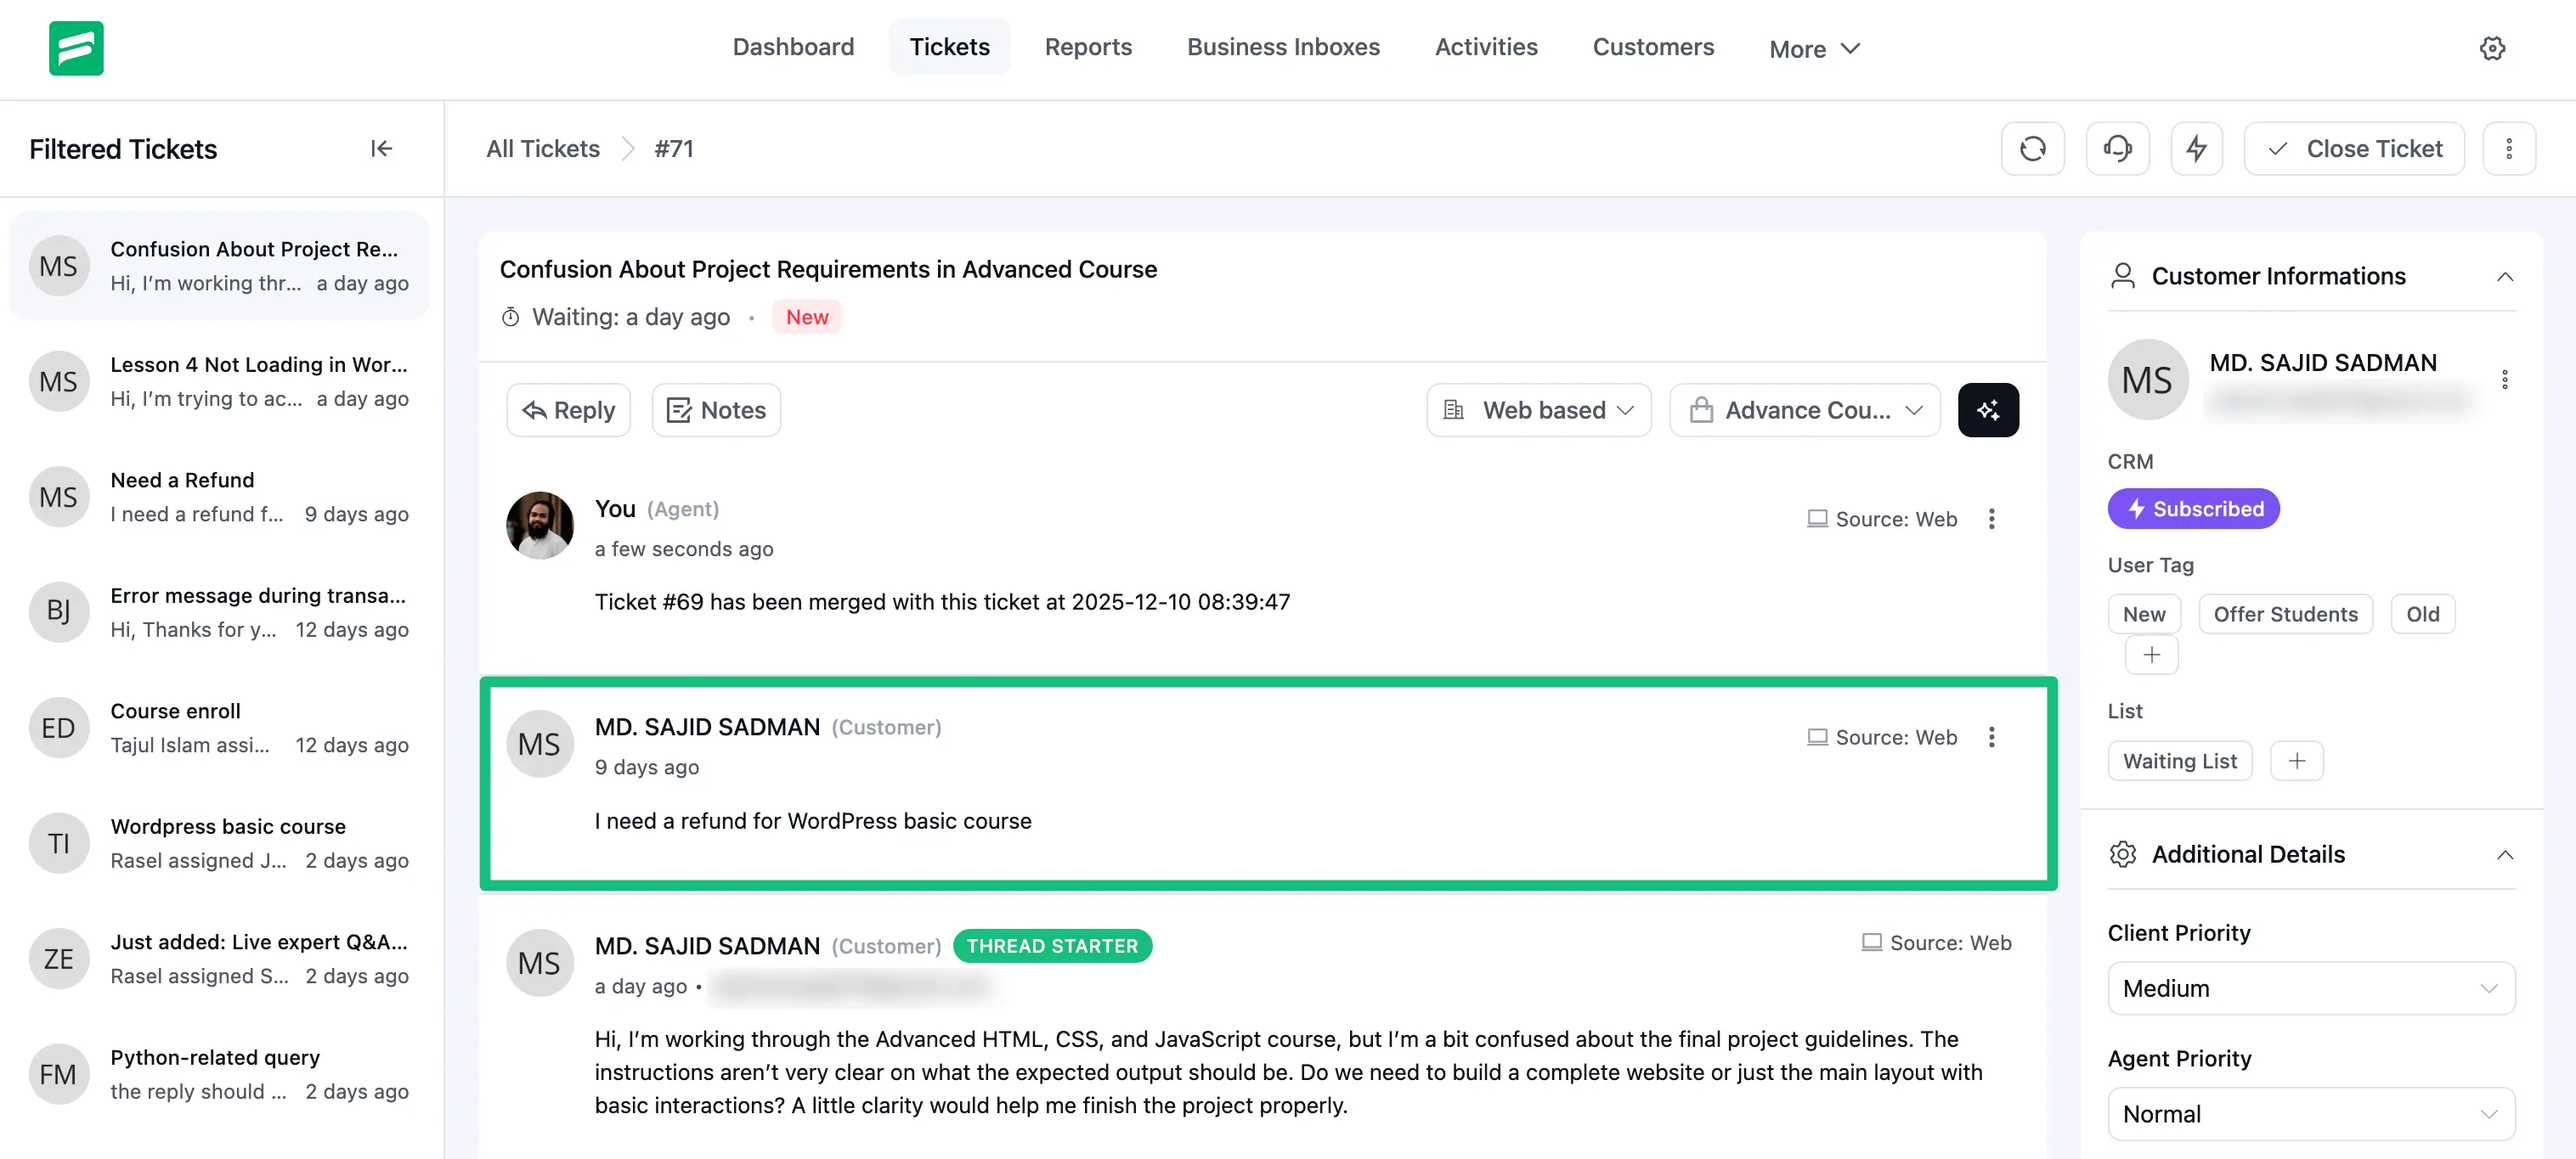
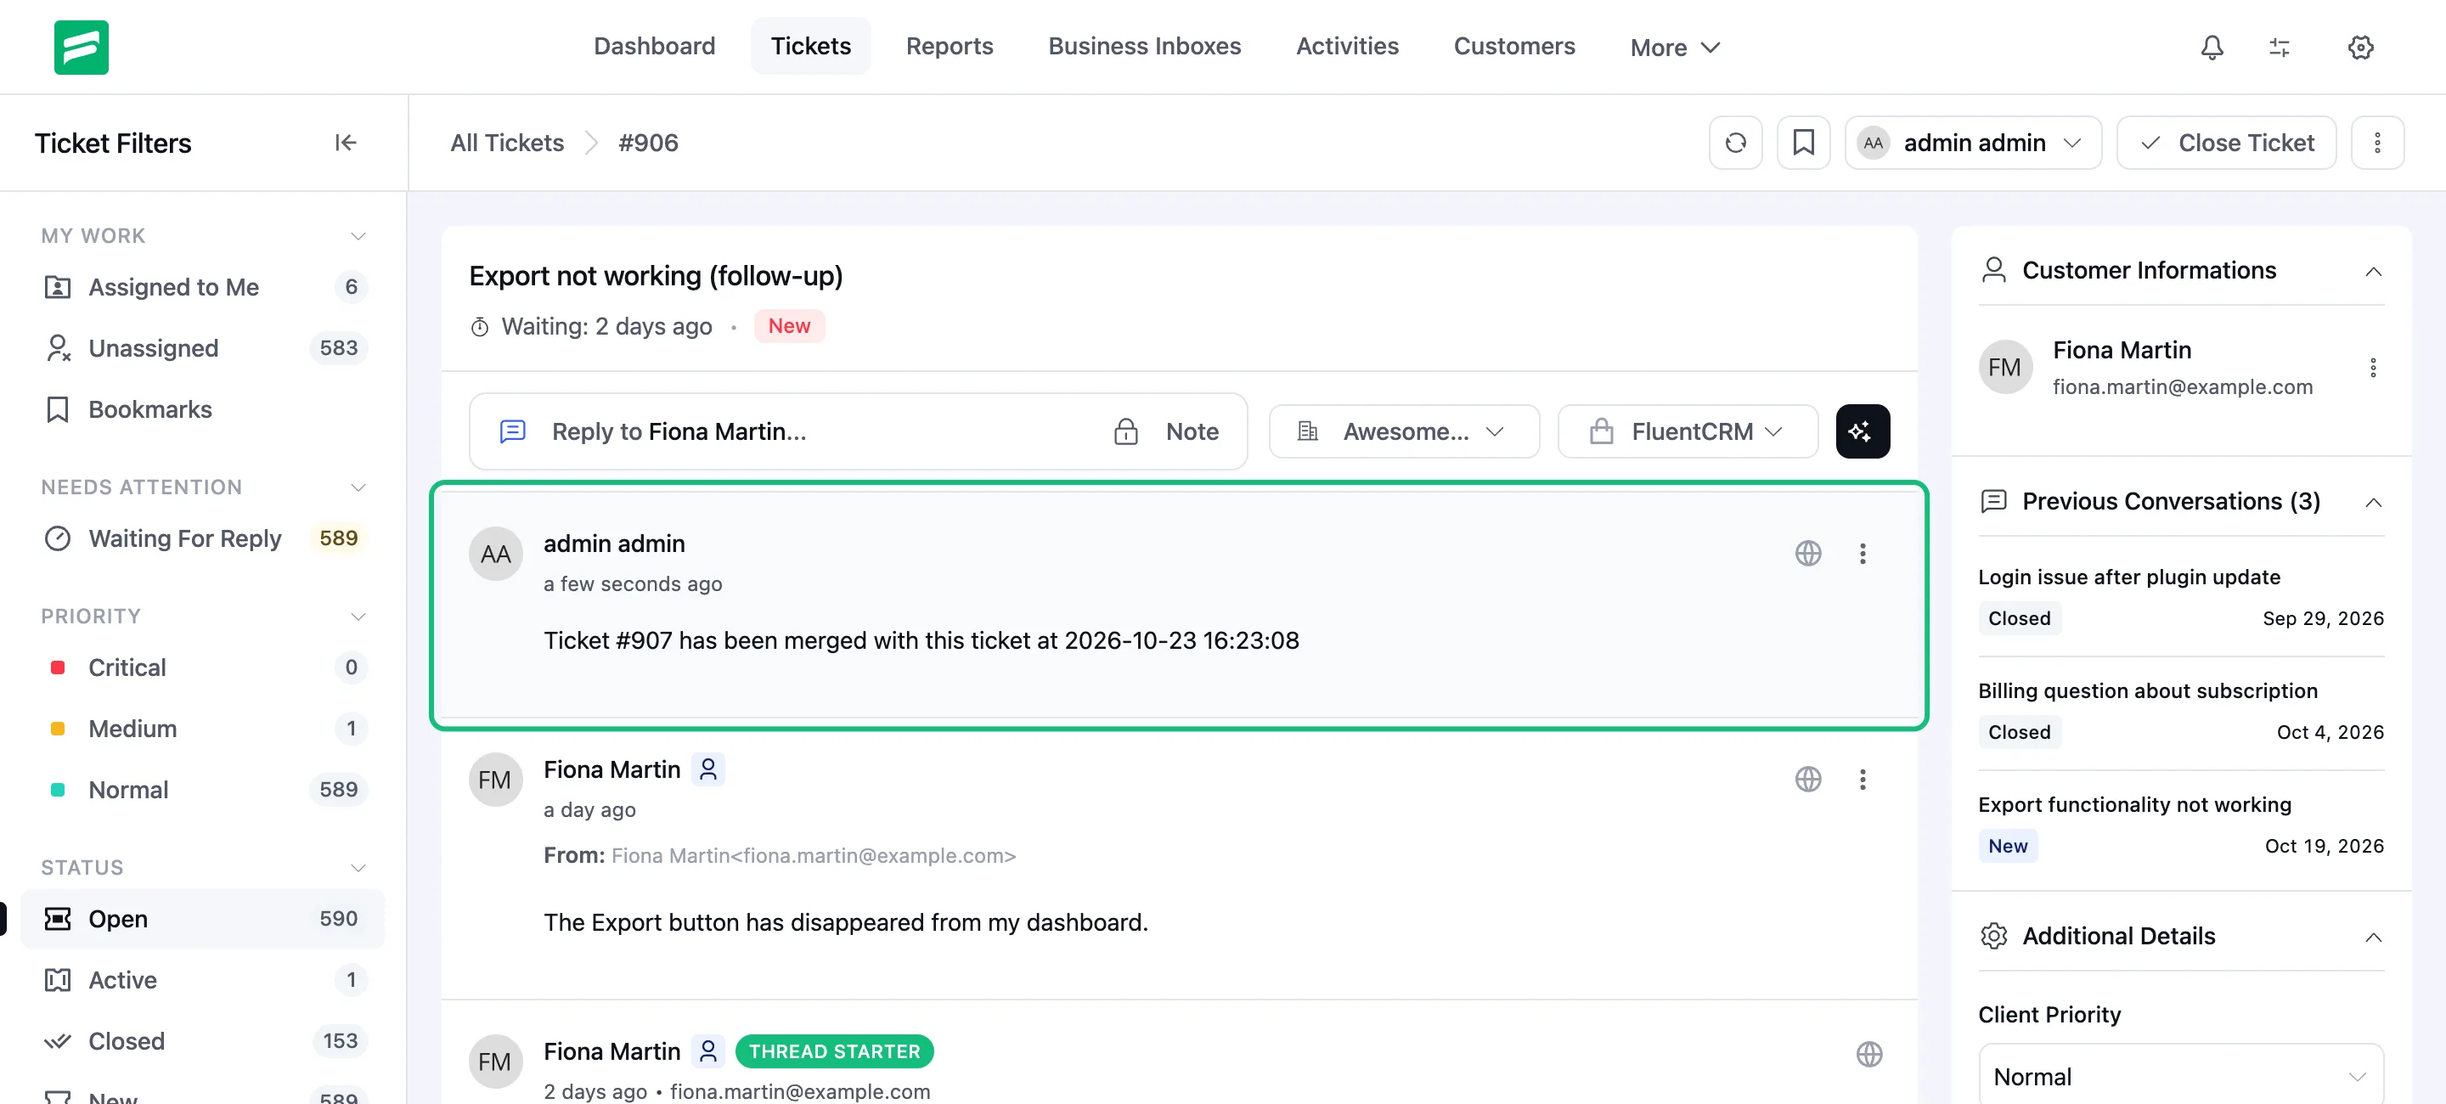
Refresh merge ticket documentation
Update the merge-ticket screenshots and clarify the steps and image descriptions in the guide.

diff --git a/docs/ticket-management/merge-tickets.md b/docs/ticket-management/merge-tickets.md
@@ -10,18 +10,18 @@ First, go to your **Fluent Support** and click on **Tickets.**
 
 Now go to your desired ticket section from **Assigned to Me**, **Unassigned**, **Bookmarks**, or a status view such as **Open** or **All**.
 
-Open the specific ticket you want to merge, and click on the **Three dot Icon**. Now, select ”**Merge Tickets”** and a popup page will appear on the top.
+Open the specific ticket you want to merge, and click on the **Three dot Icon**. Now, select **Merge Ticket** and a popup page will appear.
 
-![Merge Tickets option](/images/ticket-management/productivity-tools/merge-tickets/merge-ticket-1.webp)
+![The three-dot menu on a ticket with the Merge Ticket option highlighted](/images/ticket-management/productivity-tools/merge-tickets/merge-ticket-1.webp)
 
 The popup will display all the tickets opened by a single user under **ID** , **Title** , and **Status** options to merge.
 
 You can select all the tickets in bulk at once or individually based on your needs. Then click on the **Merge** button. 
 
-![Display of all merged tickets](/images/ticket-management/productivity-tools/merge-tickets/merge-ticket-2.webp)
+![The Merge Tickets popup listing the customer's other tickets, with one selected and the Merge button highlighted](/images/ticket-management/productivity-tools/merge-tickets/merge-ticket-2.webp)
 
 Click on and the ticket will be combined with the previous one. Now you can respond to all merged tickets at once with a single response for all inquiries.
 
-![Finally marge desired tickets](/images/ticket-management/productivity-tools/merge-tickets/merge-ticket-4.webp)
+![The ticket after the merge, showing a message that the other ticket has been merged with it](/images/ticket-management/productivity-tools/merge-tickets/merge-ticket-4.webp)
 
 
